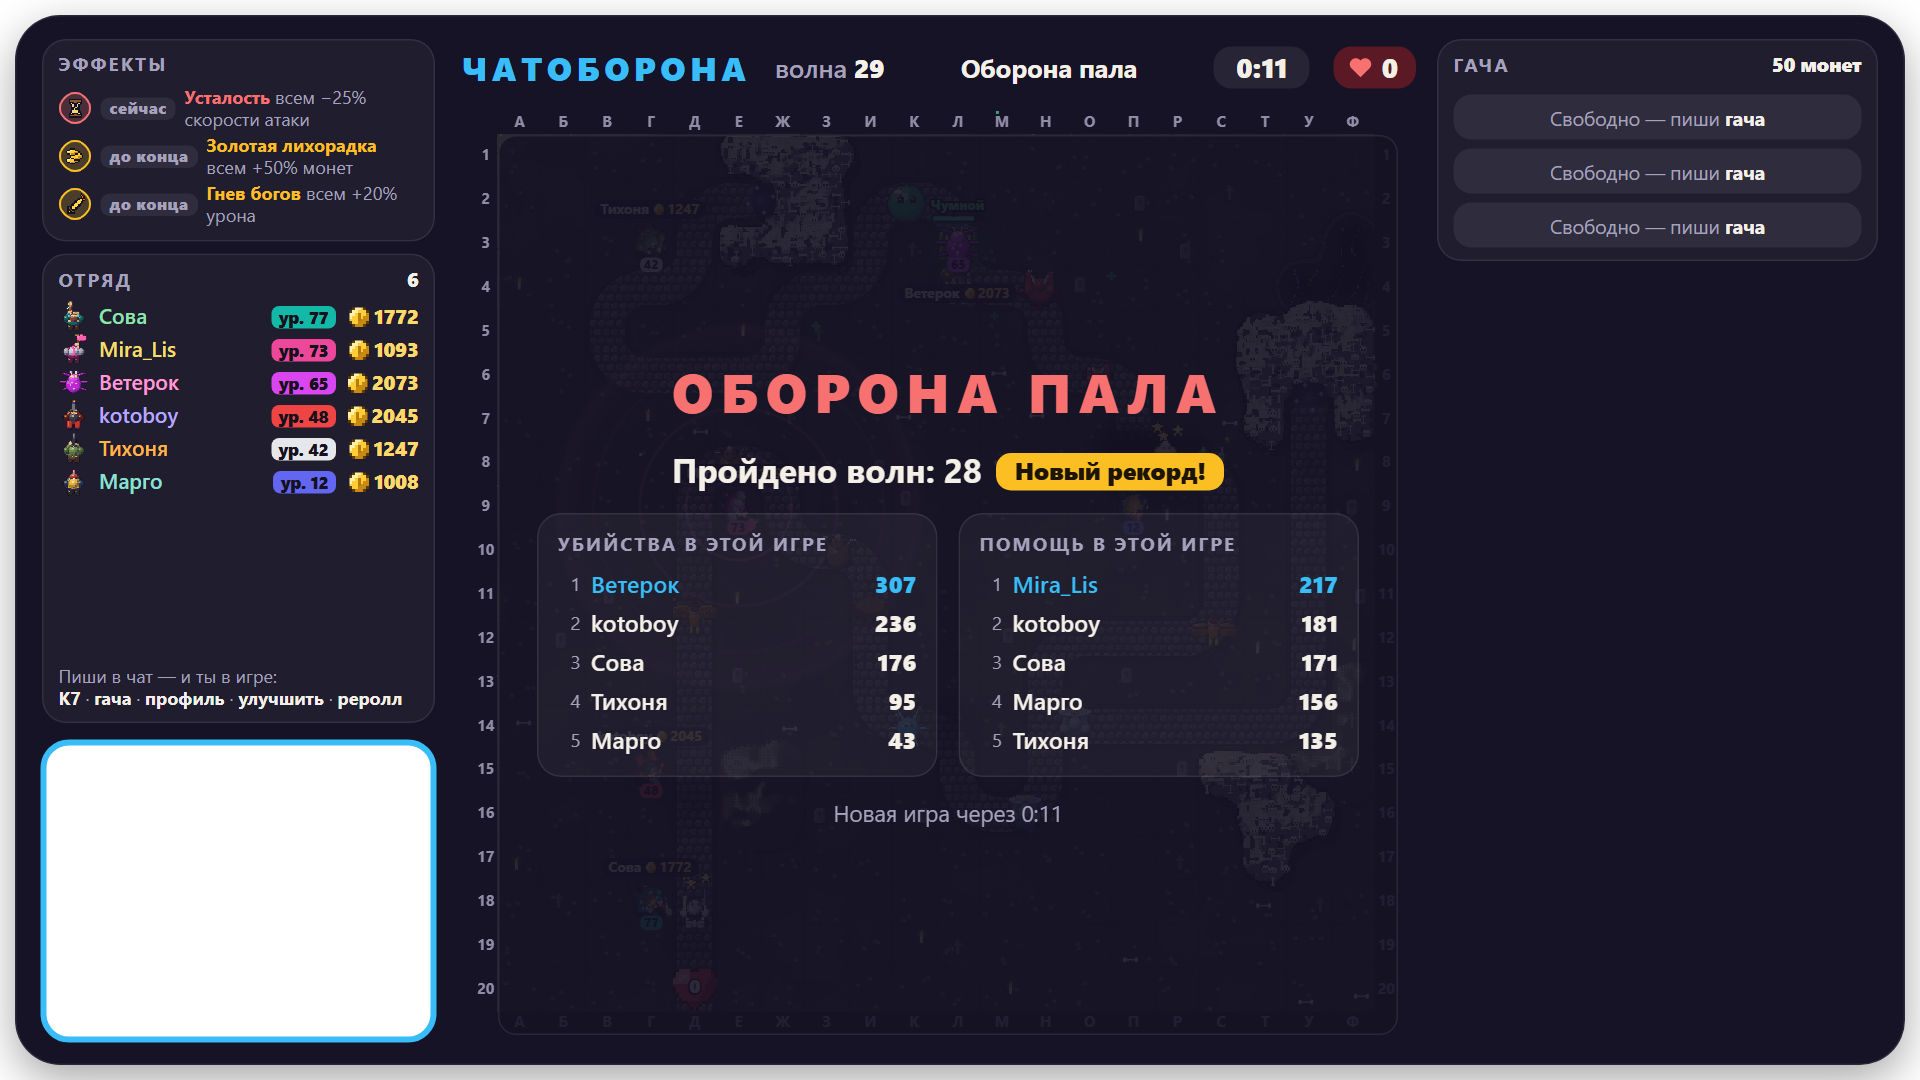
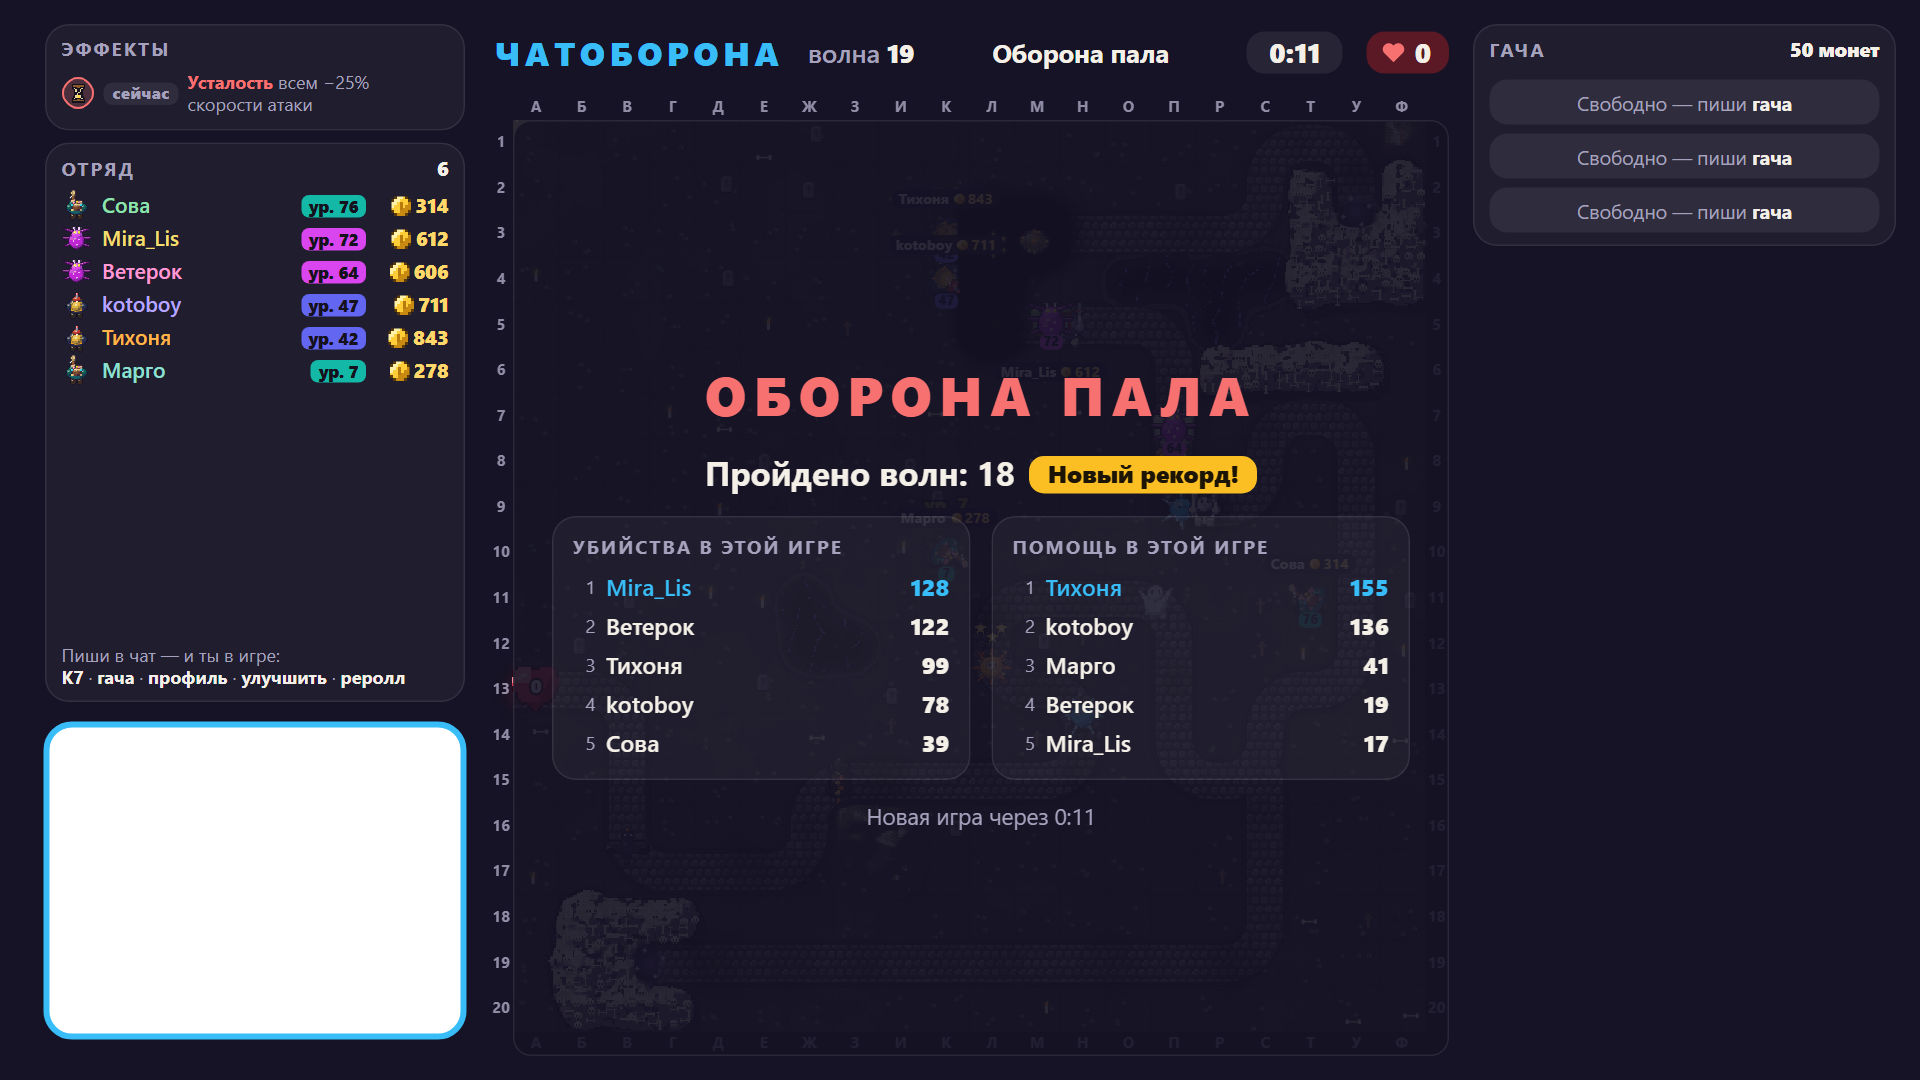
Раскладка как у Словолова и Словотрона, оверлей на весь кадр, поле крупнее, вода вплотную к дорогам

diff --git a/site/css/overlay.css b/site/css/overlay.css
@@ -30,18 +30,16 @@ body {
 }
 
 .card {
-  position: absolute; inset: 10px; z-index: 0; padding: 16px 18px;
-  display: grid; gap: 12px 14px;
-  grid-template: "left main side" minmax(0, 1fr) "cam main side" 200px / 262px 640px minmax(0, 1fr);
-  border-radius: 30px; overflow: hidden;
-  box-shadow: 0 10px 30px rgba(0, 0, 0, .35);
-}
-.card::after {
-  content: ""; position: absolute; inset: 0; border-radius: inherit; pointer-events: none;
-  box-shadow: inset 0 0 0 1px var(--line);
+  position: absolute; inset: 0; z-index: 0; padding: 16px 16px 16px 30px;
+  display: grid; gap: 14px 16px;
+  grid-template: "left main side" minmax(0, 1fr) "cam main side" 222px / 280px 640px minmax(0, 1fr);
+  overflow: hidden;
 }
 
-.cam { grid-area: cam; position: relative; z-index: -1; border-radius: 18px; box-shadow: 0 0 0 2000px var(--card); }
+.cam {
+  grid-area: cam; position: relative; z-index: -1; margin-bottom: 12px; border-radius: 18px;
+  box-shadow: 0 0 0 2000px var(--card);
+}
 .cam::after {
   content: ""; position: absolute; inset: -1px; border-radius: 19px; border: 4px solid var(--accent);
 }
@@ -51,15 +49,16 @@ body {
 .nocam .card, .nochat .card { background: var(--card); }
 
 .nochat .cam, .nochat .left { display: none; }
-.nochat .card { left: 286px; grid-template: "main side" minmax(0, 1fr) / 640px minmax(0, 1fr); }
+.nochat .card {
+  left: 310px; padding-left: 16px; grid-template: "main side" minmax(0, 1fr) / 640px minmax(0, 1fr);
+}
 
 .noside .side { display: none; }
-.noside .card { right: 314px; grid-template: "left main" minmax(0, 1fr) "cam main" 200px / 262px 640px; }
+.noside .card { right: 298px; grid-template: "left main" minmax(0, 1fr) "cam main" 222px / 280px 640px; }
 .nochat.noside .card { grid-template: "main" minmax(0, 1fr) / 640px; }
 
 .nobg { --empty: rgba(21, 19, 37, .62); --muted: #cfcbe2; }
-.nobg .card { background: none; box-shadow: none; }
-.nobg .card::after { display: none; }
+.nobg .card { background: none; }
 .nobg .cam { box-shadow: none; }
 .nobg .head { text-shadow: 0 1px 2px rgba(0, 0, 0, .95), 0 0 8px rgba(0, 0, 0, .7); }
 .nobg .list, .nobg .board { background: rgba(21, 19, 37, .82); }
@@ -94,9 +93,9 @@ body {
 }
 
 .board {
-  position: relative; z-index: 3; flex: none; width: 616px; height: 616px; align-self: center; border-radius: 14px;
+  position: relative; z-index: 3; flex: none; width: 640px; height: 640px; align-self: center; border-radius: 14px;
 }
-#field { position: absolute; left: 0; top: 0; width: 616px; height: 616px; }
+#field { position: absolute; left: 0; top: 0; width: 640px; height: 640px; }
 .cheer { position: absolute; inset: 0; z-index: 30; pointer-events: none; }
 #confetti { position: absolute; left: 0; top: 0; width: 1280px; height: 720px; image-rendering: pixelated; }
 .cheer-box {

diff --git a/site/js/terrain.js b/site/js/terrain.js
@@ -451,7 +451,7 @@ function slabs(style) {
 
 function paintRoad(ctx, battle, look) {
   const style = ROADS[look.road], { joined } = links(battle), width = CELL * 0.8;
-  const lines = [battle.routes[0]].concat(battle.branch.length ? [battle.routes[1].slice(0, -1)] : []);
+  const lines = roadLines(battle);
   ctx.save();
   ctx.beginPath();
   ctx.rect(EDGE, EDGE, CELL * SIZE, CELL * SIZE);
@@ -739,7 +739,6 @@ function paintLakes(data, battle, look) {
   if (!cells.length && !(battle.rivers || []).length) return;
   const { h, box } = heights(cells, 0.6, 700);
   for (const river of battle.rivers || []) flow(h, box, river);
-  keepRoad(h, box, battle);
   const tones = { wet: rgb(style.wet), shore: rgb(style.shore), shallow: rgb(style.shallow), deep: rgb(style.deep),
     shine: rgb(style.shine), mark: rgb(style.mark || style.shine) };
   for (let y = box[1]; y < box[3]; y++) {
@@ -776,9 +775,19 @@ function layer(painters, battle, look) {
 }
 
 function relief(battle, look) {
-  const high = layer([paintLakes, paintMountains], battle, look);
-  paintRivers(high.getContext('2d'), battle);
+  const water = layer([paintLakes], battle, look), high = document.createElement('canvas');
+  high.width = high.height = SIDE;
+  const g = high.getContext('2d'), w = water.getContext('2d');
+  w.globalCompositeOperation = 'destination-out';
+  strokes(w, roadLines(battle), (v) => v * CELL, [[CELL * 0.8 + 3, '#000000']]);
+  g.drawImage(water, 0, 0);
+  g.drawImage(layer([paintMountains], battle, look), 0, 0);
+  paintRivers(g, battle);
   return { low: layer([paintHills], battle, look), high };
+}
+
+function roadLines(battle) {
+  return [battle.routes[0]].concat(battle.branch.length ? [battle.routes[1].slice(0, -1)] : []);
 }
 
 function flow(h, box, cells) {

diff --git a/site/index.html b/site/index.html
@@ -180,7 +180,6 @@
     <ul>
       <li>Чем больше зрителей в отряде, тем дальше он проходит — зови чат вступать.</li>
       <li>Отряд сильнее всего, когда в нём есть урон, контроль и поддержка.</li>
-      <li>Все подробности — <a href="https://github.com/Sumaizu/chatoborona#readme" target="_blank" rel="noopener">в описании игры на GitHub</a>.</li>
     </ul>
   </div>
   <footer class="rules-foot">

diff --git a/site/js/draw.js b/site/js/draw.js
@@ -7,7 +7,7 @@ import { rarityOf } from './gacha.js';
 import { LEVEL_MAX } from './balance.js';
 
 export const BOARD = EDGE * 2 + CELL * SIZE;
-const FIELD = 616;
+const FIELD = 640;
 
 const ZOOM = 2;
 const SMOOTH = 28;
